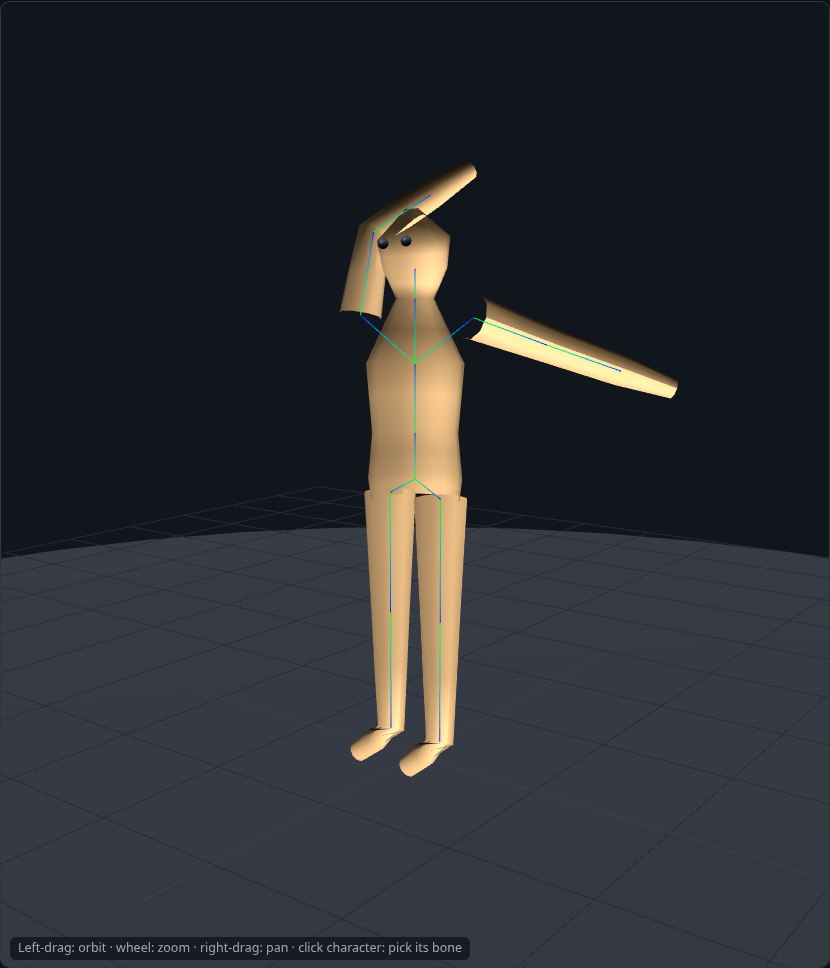
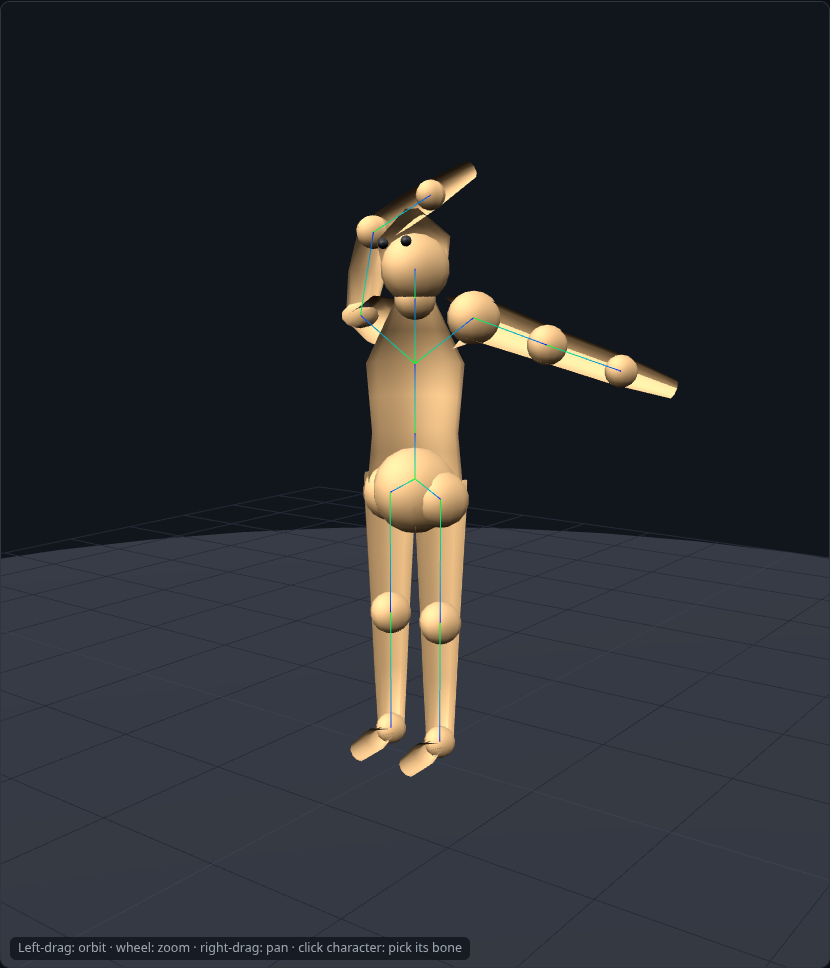
Polish the character mesh so it reads as one connected figure
The tube chains butted together with visible gaps at the shoulders,
hips and neck. Now every joint carries a sphere blended 50/50 between
the bones that meet there (pelvis, neck, head, shoulders, elbows,
wrists, hip joints, knees, ankles), and the arm/leg chains start
inside the torso/pelvis so limbs emerge from the body. Radii tuned
down so joints read as anatomy, not rivets. Skin screenshots
re-shot with the polished mesh.

diff --git a/character-animator/app/public/js/rig.js b/character-animator/app/public/js/rig.js
@@ -74,25 +74,29 @@ function buildChains(world) {
       { at: headMid, r: 0.125, bone: "head" },
       { at: headTop, r: 0.020, bone: null },
     ], world) },
-    { radial: 9, points: chainPoints([ // arm L
+    { radial: 9, points: chainPoints([ // arm L — starts inside the torso
+      { at: V(0.13, 1.56, 0), r: 0.088, bone: "chest" },
       { at: "upperArm.L", r: 0.075, bone: "upperArm.L" },
       { at: "lowerArm.L", r: 0.058, bone: "lowerArm.L" },
       { at: "hand.L", r: 0.048, bone: "hand.L" },
       { at: tipL, r: 0.030, bone: null },
     ], world) },
-    { radial: 9, points: chainPoints([ // arm R
+    { radial: 9, points: chainPoints([ // arm R — starts inside the torso
+      { at: V(-0.13, 1.56, 0), r: 0.088, bone: "chest" },
       { at: "upperArm.R", r: 0.075, bone: "upperArm.R" },
       { at: "lowerArm.R", r: 0.058, bone: "lowerArm.R" },
       { at: "hand.R", r: 0.048, bone: "hand.R" },
       { at: tipR, r: 0.030, bone: null },
     ], world) },
-    { radial: 10, points: chainPoints([ // leg L
+    { radial: 10, points: chainPoints([ // leg L — starts inside the pelvis
+      { at: V(0.10, 1.01, 0), r: 0.105, bone: "hips" },
       { at: "upperLeg.L", r: 0.095, bone: "upperLeg.L" },
       { at: "lowerLeg.L", r: 0.072, bone: "lowerLeg.L" },
       { at: "foot.L", r: 0.052, bone: "foot.L" },
       { at: toeL, r: 0.036, bone: null },
     ], world) },
-    { radial: 10, points: chainPoints([ // leg R
+    { radial: 10, points: chainPoints([ // leg R — starts inside the pelvis
+      { at: V(-0.10, 1.01, 0), r: 0.105, bone: "hips" },
       { at: "upperLeg.R", r: 0.095, bone: "upperLeg.R" },
       { at: "lowerLeg.R", r: 0.072, bone: "lowerLeg.R" },
       { at: "foot.R", r: 0.052, bone: "foot.R" },
@@ -160,6 +164,44 @@ function buildGeometry(world) {
         indices.push(a, b, a + 1, b, b + 1, a + 1);
       }
     }
+  }
+
+  // Joint balls: a sphere at every joint, blended between the two
+  // bones that meet there, so limbs read as connected anatomy rather
+  // than tubes butted together — and bends stay plump, not pinched.
+  const balls = [
+    ["hips",       [0, -0.04, 0], 0.150, [["hips", 1]]],
+    ["neck",       null, 0.072, [["chest", 0.5], ["neck", 0.5]]],
+    ["head",       null, 0.118, [["neck", 0.4], ["head", 0.6]]],
+    ["upperArm.L", null, 0.088, [["chest", 0.5], ["upperArm.L", 0.5]]],
+    ["upperArm.R", null, 0.088, [["chest", 0.5], ["upperArm.R", 0.5]]],
+    ["lowerArm.L", null, 0.064, [["upperArm.L", 0.5], ["lowerArm.L", 0.5]]],
+    ["lowerArm.R", null, 0.064, [["upperArm.R", 0.5], ["lowerArm.R", 0.5]]],
+    ["hand.L",     null, 0.050, [["lowerArm.L", 0.5], ["hand.L", 0.5]]],
+    ["hand.R",     null, 0.050, [["lowerArm.R", 0.5], ["hand.R", 0.5]]],
+    ["upperLeg.L", null, 0.098, [["hips", 0.5], ["upperLeg.L", 0.5]]],
+    ["upperLeg.R", null, 0.098, [["hips", 0.5], ["upperLeg.R", 0.5]]],
+    ["lowerLeg.L", null, 0.075, [["upperLeg.L", 0.5], ["lowerLeg.L", 0.5]]],
+    ["lowerLeg.R", null, 0.075, [["upperLeg.R", 0.5], ["lowerLeg.R", 0.5]]],
+    ["foot.L",     null, 0.056, [["lowerLeg.L", 0.5], ["foot.L", 0.5]]],
+    ["foot.R",     null, 0.056, [["lowerLeg.R", 0.5], ["foot.R", 0.5]]],
+  ];
+  for (const [atName, offset, radius, weights] of balls) {
+    const centre = world.get(atName).clone();
+    if (offset) centre.add(new THREE.Vector3(...offset));
+    const sphere = new THREE.SphereGeometry(radius, 12, 9);
+    const sp = sphere.getAttribute("position");
+    const si = sphere.getIndex();
+    const base = positions.length / 3;
+    const idx = [0, 0, 0, 0], wgt = [0, 0, 0, 0];
+    weights.forEach(([name, w], k) => { idx[k] = BONE_INDEX.get(name); wgt[k] = w; });
+    for (let i = 0; i < sp.count; i++) {
+      positions.push(centre.x + sp.getX(i), centre.y + sp.getY(i), centre.z + sp.getZ(i));
+      skinIndices.push(...idx);
+      skinWeights.push(...wgt);
+    }
+    for (let i = 0; i < si.count; i++) indices.push(base + si.getX(i));
+    sphere.dispose();
   }
 
   const geo = new THREE.BufferGeometry();

diff --git a/character-animator/README.md b/character-animator/README.md
@@ -44,10 +44,11 @@ Blender's core character workflow, shrunk to one page:
   drawn with a skeleton helper and listed in a clickable
   **outliner** panel.
 - **Skinning** — the mesh is a set of tube “chains” (torso, arms,
-  legs) generated ring by ring in `js/rig.js`. Rings at a joint blend
-  50/50 between the two bones that meet there; mid-segment rings
-  belong wholly to their segment's bone. Posing a bone therefore
-  bends the mesh smoothly instead of tearing it. **Show weights**
+  legs) generated ring by ring in `js/rig.js`, with a blended sphere
+  at every joint so the limbs read as connected anatomy. Rings at a
+  joint blend 50/50 between the two bones that meet there;
+  mid-segment rings belong wholly to their segment's bone. Posing a
+  bone therefore bends the mesh smoothly instead of tearing it. **Show weights**
   recolours the mesh as a heatmap of the selected bone's influence —
   red follows it fully, blue ignores it.
 - **Pose mode** — select a bone by clicking the character (the pick
